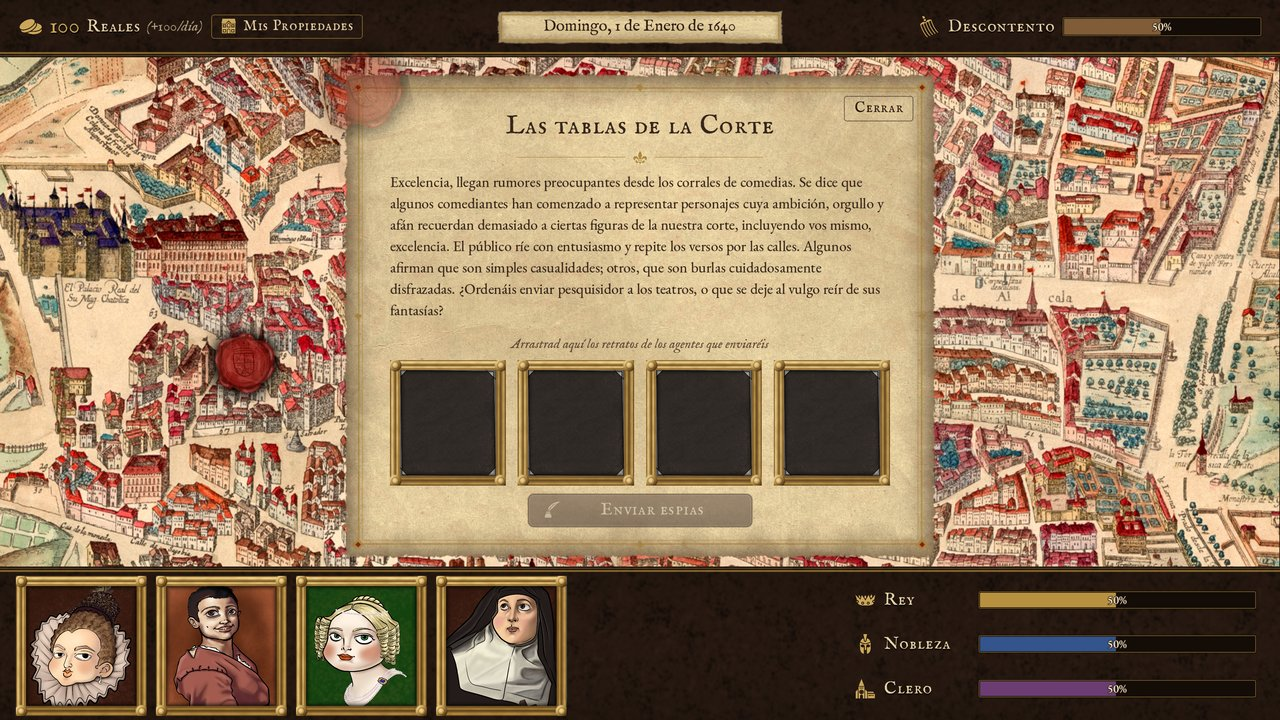
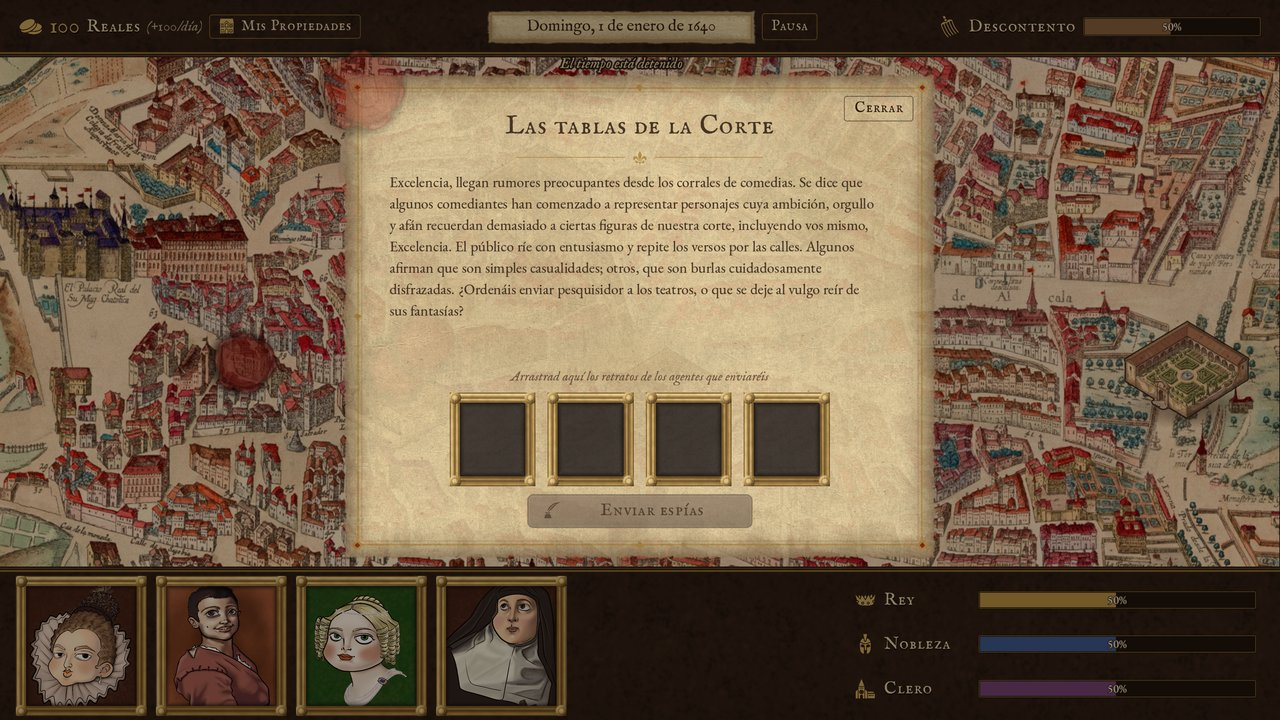
FX: nada sobre el texto, juice congelado en el menú de pausa y mezcla
- Ráfagas de las ventanas bajo su texto (burst_under) y en el margen del lacre.
- Partículas del mapa bajo el HUD; números de las barras sobre la barra.
- Monedas y cifra de los Reales bajo la franja superior.
- Menú de pausa: Juice.set_frozen congela partículas, textos, ondas, grano y temblor.
- Cola de la monja: el velo no parpadea entre mensajes encadenados.
- Mezcla: niveles por momento, limitador en el bus Efectos y antirrepetición.
- Cachés estáticas vaciadas al salir; capturas y doc actualizadas (19_pausa_congelada).

diff --git a/docs/vfx/propuesta_juice.md b/docs/vfx/propuesta_juice.md
@@ -384,8 +384,59 @@ Por orden de impacto/coste:
 **Descartado:**
 - **Volver a `CPUParticles2D` en la web:** el director retiró esa restricción; el precalentado cubre el tirón.
 
-**Abierto (fuera del área de VFX):**
-- Opciones visibles de «Reducir movimiento», «Efectos activados» y volumen de efectos en el menú de Opciones (UI): las API son `Juice.set_reduce_motion(bool)`, `Juice.enabled` y `Juice.sfx_volume_db`, o el bus «Efectos».
-- **Bug de juego:** varios avisos de la monja en el mismo frame se sobrescriben; habría que encolarlos en `main.gd`.
-- `main.gd:mission_updated` llama a `set_warning()` también en curso.
-- El formato `%i` de `game_end.gd`.
+**Abierto en aquel momento (ya resuelto por otras sesiones):** opción visible de
+«Reducir movimiento» en Opciones (UI), cola de mensajes de la monja (lógica) y
+el formato `%i` de `game_end.gd`.
+
+## 7. Cierre de pendientes (menú de pausa, arrastre, cola de la monja y mezcla)
+
+**Nada tapa texto legible.** Orden de dibujo en `CanvasLayerMission`, de abajo arriba:
+
+| Capa | Qué contiene |
+|---|---|
+| `JuiceWorldFx` (antes de `FondoSuperior`) | partículas del mapa: lacres, edificios, monedas |
+| HUD | franjas, rótulos, barras |
+| `JuiceHudText` | los números que flotan sobre las barras |
+| monja y ventanas | — |
+
+- Dentro de las ventanas, el polvo, el lacre, la tinta y el oro salen con `Juice.burst_under()`. Van en un `Node2D`, primer hijo del `PanelContainer`, así que se dibujan bajo el texto. Además son más lentos y breves, y se quedan en el margen junto al lacre (`08_fracaso_tinta`).
+- Los números de las barras van sobre la propia barra, en el extremo del relleno, apartados del porcentaje. Antes se salían por el borde derecho de la pantalla.
+- Las monedas y la cifra de los Reales van bajo la franja superior y bajan en vez de subir.
+
+**Sombra del lacre.** Los sprites `lacre_mision.png` y `lacre_mision_on.png` traían la sombra cortada por el borde de la imagen: hasta 106/255 de alfa en el borde derecho, que se veía como una línea recta. Ahora solo los píxeles oscuros de la sombra se difuminan radialmente del 70 % al 100 % del radio. El lacre, su tamaño y el brillo azul quedan igual.
+
+**Menú de pausa.** `MainJuice` escucha la visibilidad de `PauseMenu` y llama a `Juice.set_frozen()`. Con el menú abierto:
+- se paran las partículas, los números flotantes, las ondas, el grano, el latido del Descontento (el shader usa `fx_time` en vez de `TIME`) y el temblor;
+- se oculta la capa superior;
+- los sonidos de los botones del menú siguen funcionando.
+
+Las ráfagas se liberan con `finished`, no con un temporizador, así que una ráfaga congelada sigue ahí al volver (`19_pausa_congelada`).
+
+**Arrastre de agentes.** UI ilumina el marco del hueco (`self_modulate`) y el juice aplasta el hueco y suena; no hay feedback duplicado.
+
+**Cola de la monja.** Cuando un mensaje cierra y el siguiente abre en el mismo frame, solo se anima el texto: el velo y la monja no parpadean.
+
+**Mezcla.** Medida con `ebur128` (máximo momentáneo y pico real):
+
+| | Antes | Ahora |
+|---|---|---|
+| Ficheros | entre -14 y -37 LUFS | -20 LUFS, pico real ≤ -1 dBTP |
+
+- Los transitorios (`crack`, `seal`, `click`) quedan limitados por el pico.
+- Música de partida: `intro_long` a -5 dB, unos -31 LUFS integrados. La UI de misión (`mision_papel`) suena a unos -22 LUFS.
+- Niveles efectivos con `sfx_volume_db` -6:
+
+| Momento | Nivel |
+|---|---|
+| Umbrales (`thud` 0, `toll` 0) | ≈ -26 |
+| Éxito (`chime` -2) | ≈ -28 |
+| Monja (`paper` -4) | ≈ -30 |
+| Lacre al aparecer (`seal` -4) | ≈ -32 |
+| Campanas del domingo | ≈ -38 |
+| Clic de botón | ≈ -38 |
+
+Todo pasa por el bus `Efectos` (deslizador de Opciones). Juice añade un `AudioEffectHardLimiter` a -1 dB al final del bus si no lo tiene, e ignora el mismo sonido repetido en menos de 60 ms, que sonaría con fase y sumaría volumen.
+
+**Cierre limpio.** Las cachés estáticas de sonidos y texturas se vacían al salir: los avisos de recursos vivos al cerrar bajan de 19 a 1.
+
+**Abierto fuera de VFX.** `main.gd:mission_updated` sigue llamando a `button.set_warning()` cuando la misión está en curso, porque el `else` es de `resolved()`. MainJuice no depende de ello: lee `mission.status`.
